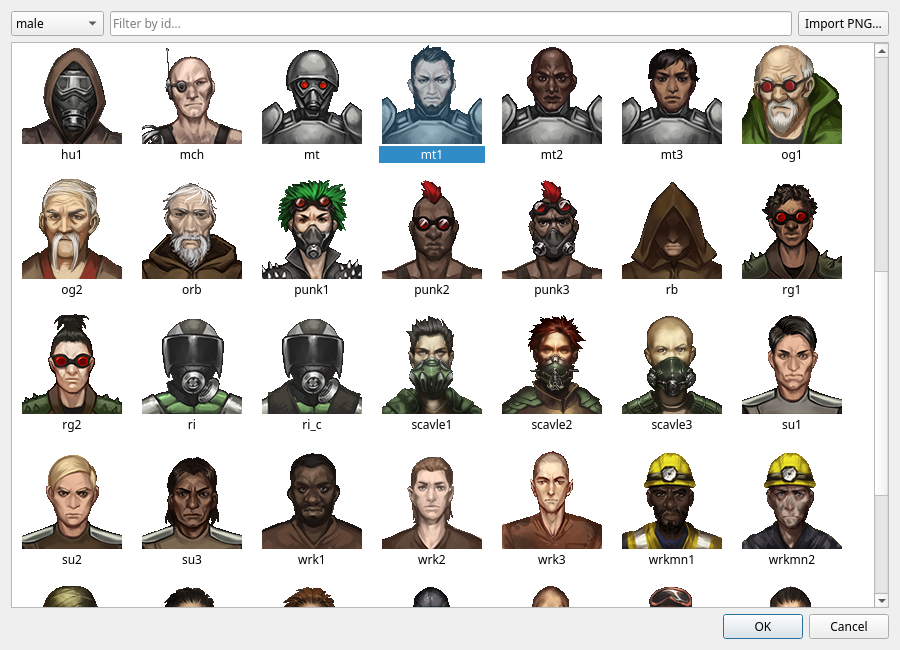
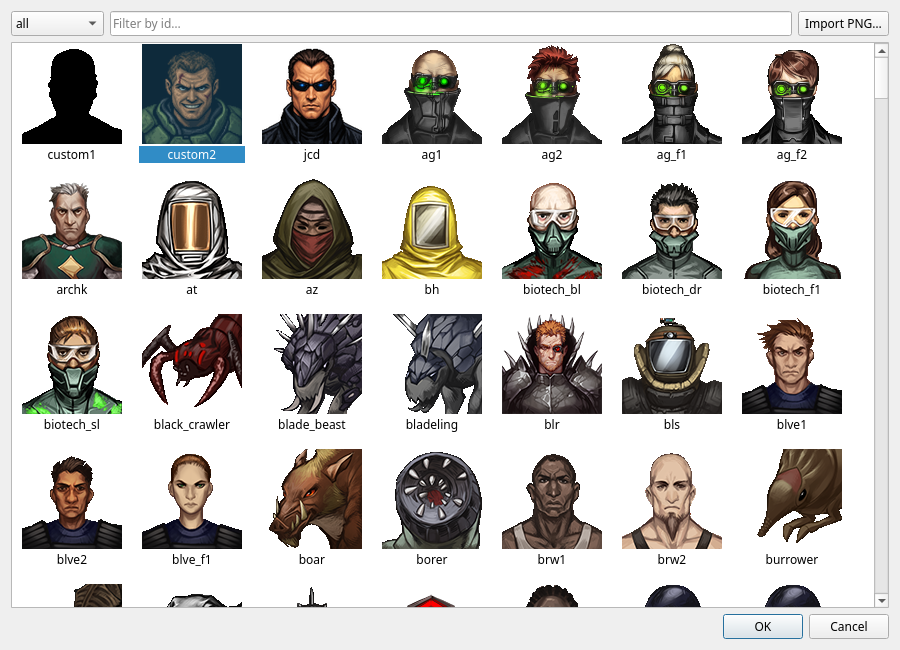
README: portrait screenshot shows custom portraits

diff --git a/README.md b/README.md
@@ -77,7 +77,10 @@ Choose from every portrait in the game and from any custom portraits you have in
 into a custom portrait in one step: it crops it to a square and writes the three sizes the game expects
 into its `CustomPortraits` folder. Restart Underrail afterwards; custom portraits are loaded at startup.
 
-![Portraits](docs/screenshots/portraits.png)
+![Portrait picker: three custom portraits first (custom1, custom2, jcd), then the game's own](docs/screenshots/portraits.png)
+
+*The first three are custom portraits – a silhouette with a transparent background and two imported
+pictures – followed by the game's own.*
 
 What makes a good portrait, following the
 [official wiki](https://stygiansoftware.com/wiki/index.php?title=Character_creation#Custom_portraits):
